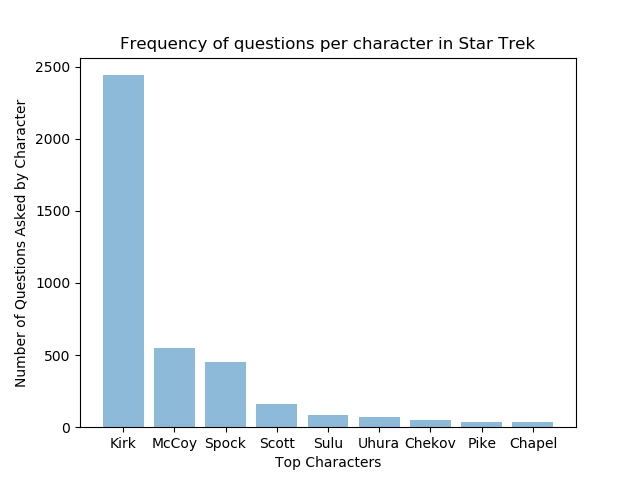
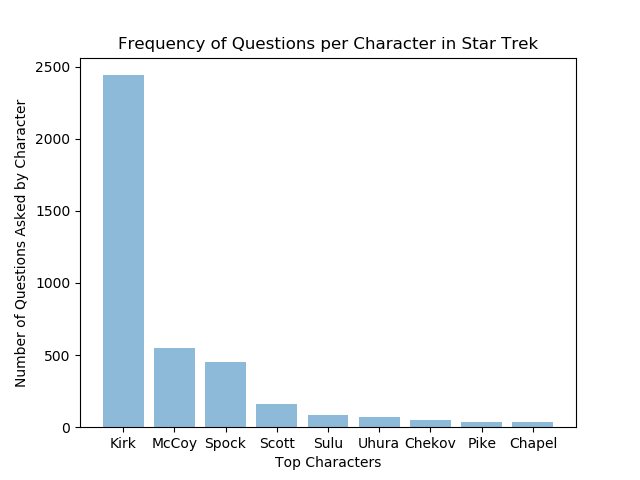
updated plot titles

Changed region(s): [[0.1875, 0.0625, 0.8438, 0.125]]

diff --git a/QuestionCount/questioncount.py b/QuestionCount/questioncount.py
@@ -61,7 +61,7 @@ plt.bar(ypos,freqs,align='center',alpha =0.5)
 plt.xticks(ypos,objects)
 plt.ylabel('Number of Questions Asked by Character')
 plt.xlabel('Top Characters')
-plt.title('Frequency of questions per character in Star Trek')
+plt.title('Frequency of Questions per Character in Star Trek')
 plt.savefig('absoluteFreqs.png')
 plt.show()
 
@@ -71,7 +71,7 @@ plt.bar(ypos,normfreqs,align='center',alpha =0.5)
 plt.xticks(ypos,objects)
 plt.ylabel('Number of Questions, Divided by Character\'s Total Lines')
 plt.xlabel('Top Characters')
-plt.title('Normalized Frequency of questions per character in Star Trek')
+plt.title('Normalized Frequency of Questions per Character in Star Trek')
 
 #plt.show()
 plt.savefig('normalizedFreqs.png')
